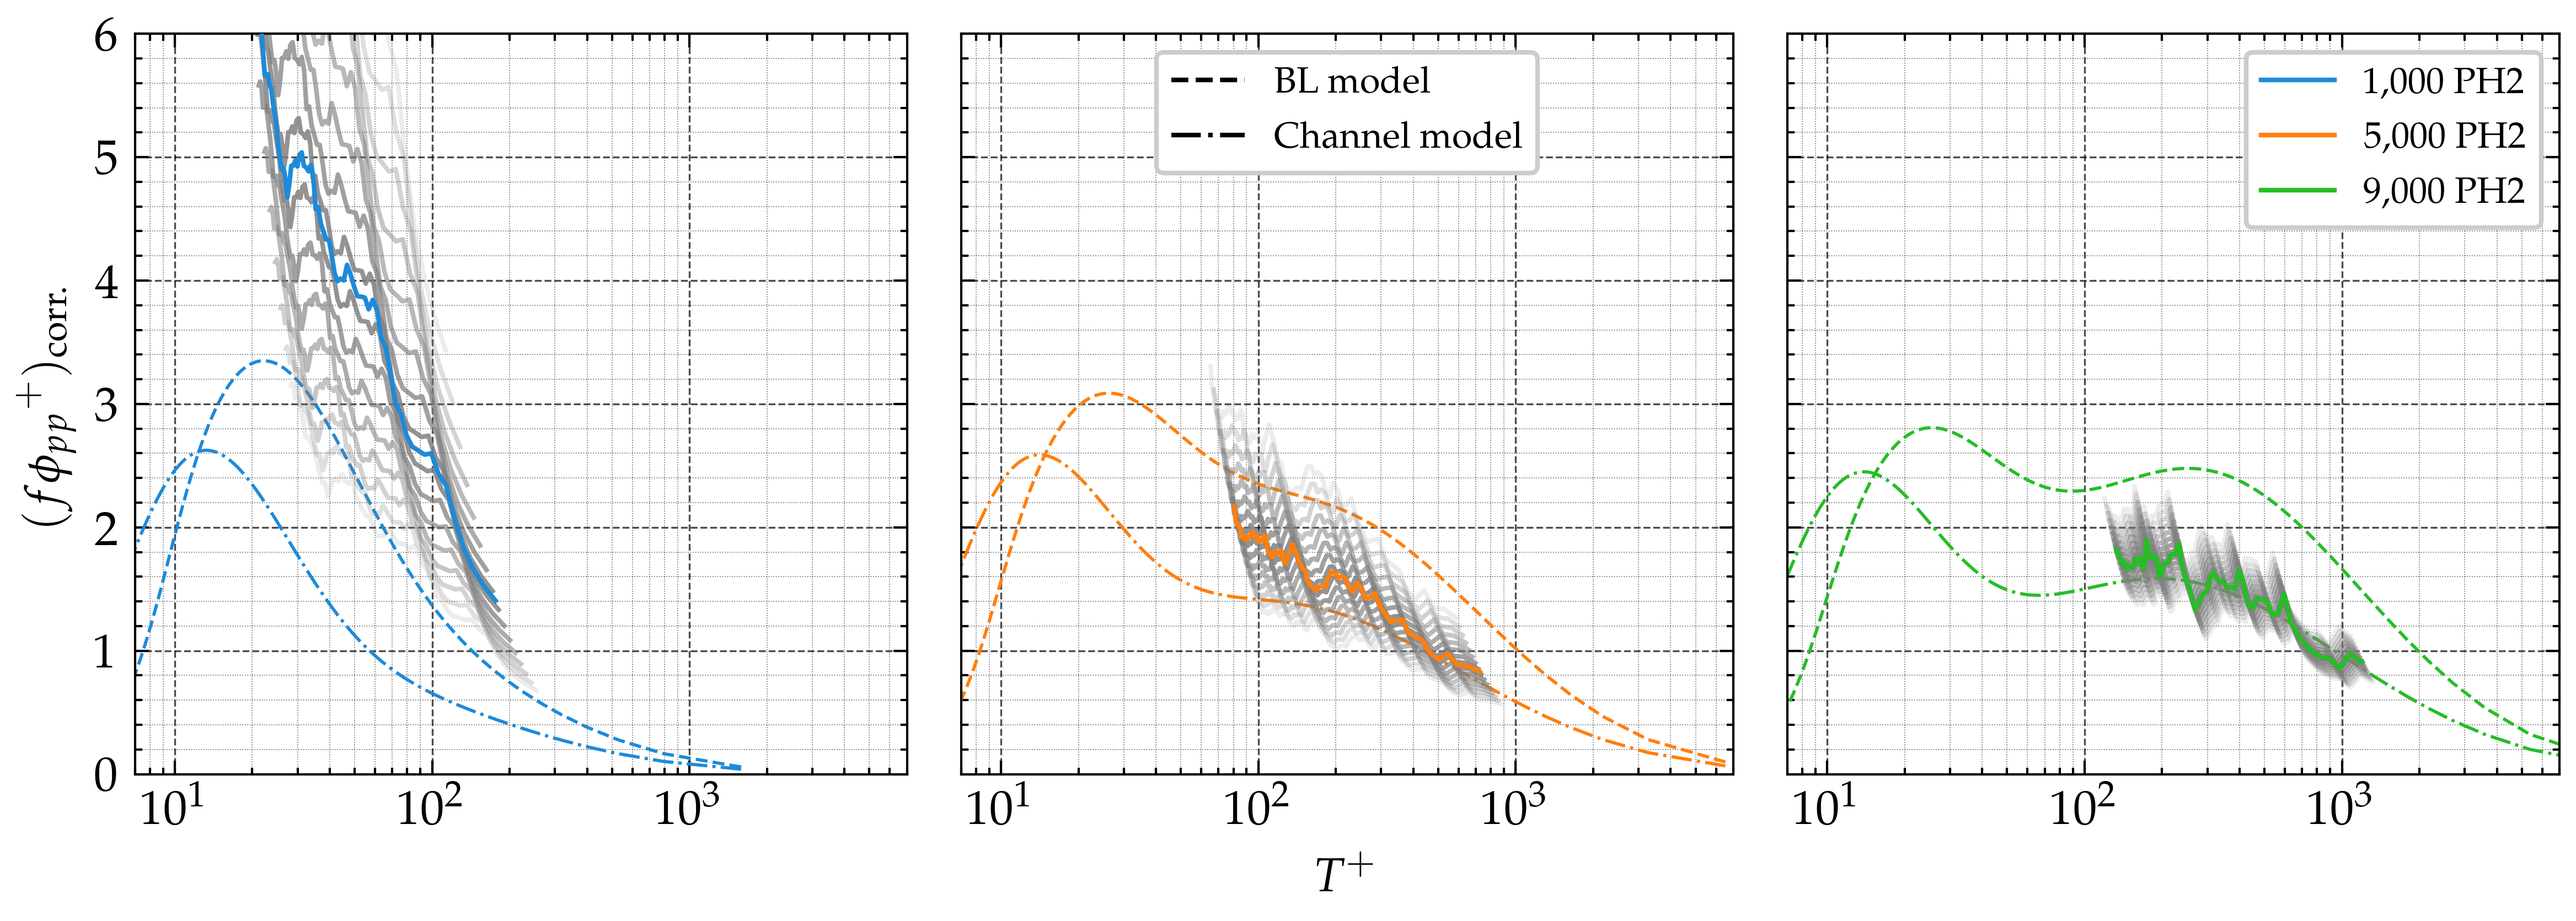
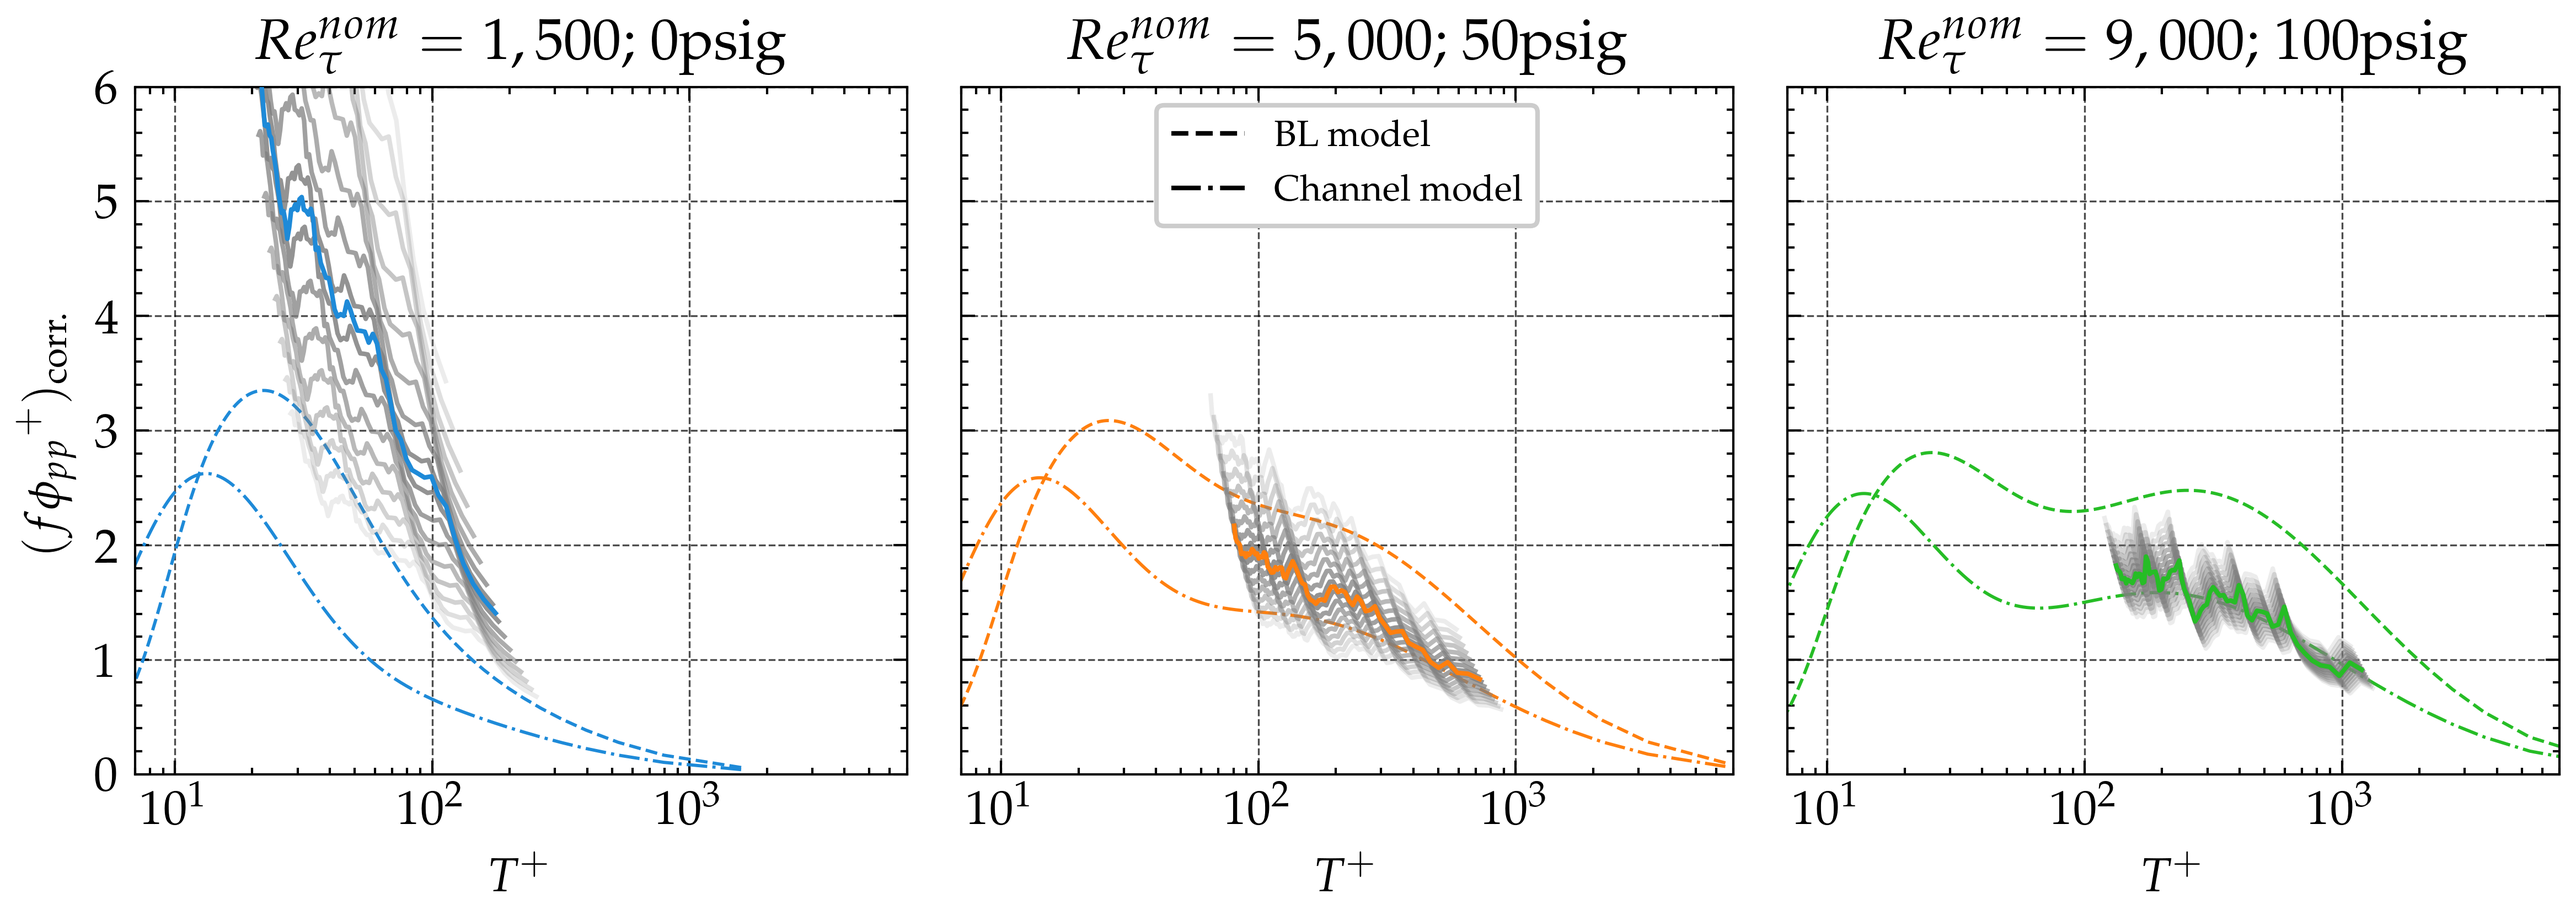
Report plots essentially done

diff --git a/src/plot/from_data/G_wallp_SU_production.py b/src/plot/from_data/G_wallp_SU_production.py
@@ -81,6 +81,7 @@ def channel_model(Tplus, Re_tau: float, u_tau: float, u_cl) -> np.ndarray:
 
 def plot_model_comparison_roi():
     labels = ['0psig', '50psig', '100psig']
+    Re_nom = [1_500, 5_000, 9_000]
 
     f_cutl, f_cuth = 100.0, 1_000.0  # Hz
 
@@ -178,11 +179,14 @@ def plot_model_comparison_roi():
 
             ax.grid(True, which='major', linestyle='--',
                     linewidth=0.4, alpha=0.7)
-            ax.grid(True, which='minor', linestyle=':',
-                    linewidth=0.2, alpha=0.6)
+            # ax.grid(True, which='minor', linestyle=':',
+            #         linewidth=0.2, alpha=0.6)
+            
+            re_labs = fr'$Re_\tau^{{nom}}={Re_nom[i]:,.0f}$; {labels[i]}'
+            ax.set_title(f"{re_labs}")
 
+            ax.set_xlabel(r"$T^+$")
     # common axes / limits
-    axs[1].set_xlabel(r"$T^+$")
     axs[0].set_ylabel(r"$({f \phi_{pp}}^+)_{\mathrm{corr.}}$")
 
     for ax in axs:
@@ -199,9 +203,9 @@ def plot_model_comparison_roi():
                linestyle=label_styles[i])
         for i in range(len(labels_handles))
     ]
-    leg1 = axs[-1].legend(custom_lines, labels_handles,
-                          loc='upper right', fontsize=8)
-    axs[-1].add_artist(leg1)
+    # leg1 = axs[-1].legend(custom_lines, labels_handles,
+    #                       loc='upper right', fontsize=8)
+    # axs[-1].add_artist(leg1)
 
     # legend for model types
     labels_handles2 = ['BL model', 'Channel model']

diff --git a/src/plot/from_data/two_point.py b/src/plot/from_data/two_point.py
@@ -319,12 +319,12 @@ def plot_2pt_speed_outer():
 
             ax.semilogx(speed_far_out, R_norm_far,   linestyle="-",  color=COLOURS[i])
             ax.semilogx(speed_close_out, R_norm_close, linestyle="--", color=COLOURS[i])
+
             re_labs = fr'$Re_\tau^{{nom}}={Re_nom[i]:,.0f}$; {labels[i]}'
-        
             ax.set_title(f"{re_labs}")
             ax.set_xlabel(r"$U_c^o$")
-            ax.axvline(0.85, color='gray', linestyle=':', lw=0.8)
-            ax.annotate(r'$U_c/U_e=0.85$', xy=(0.5, -0.1), xycoords='data', rotation=90, fontsize=8)
+            ax.axvline(0.85, color='darkblue', linestyle=':', lw=0.8)
+            ax.annotate(r'$U_c/U_e=0.85$', xy=(0.6, -0.05), xycoords='data', rotation=90, fontsize=8, color='darkblue')
 
         custom_lines = [
             Line2D([0], [0], color='gray', linestyle='-', lw=1),
